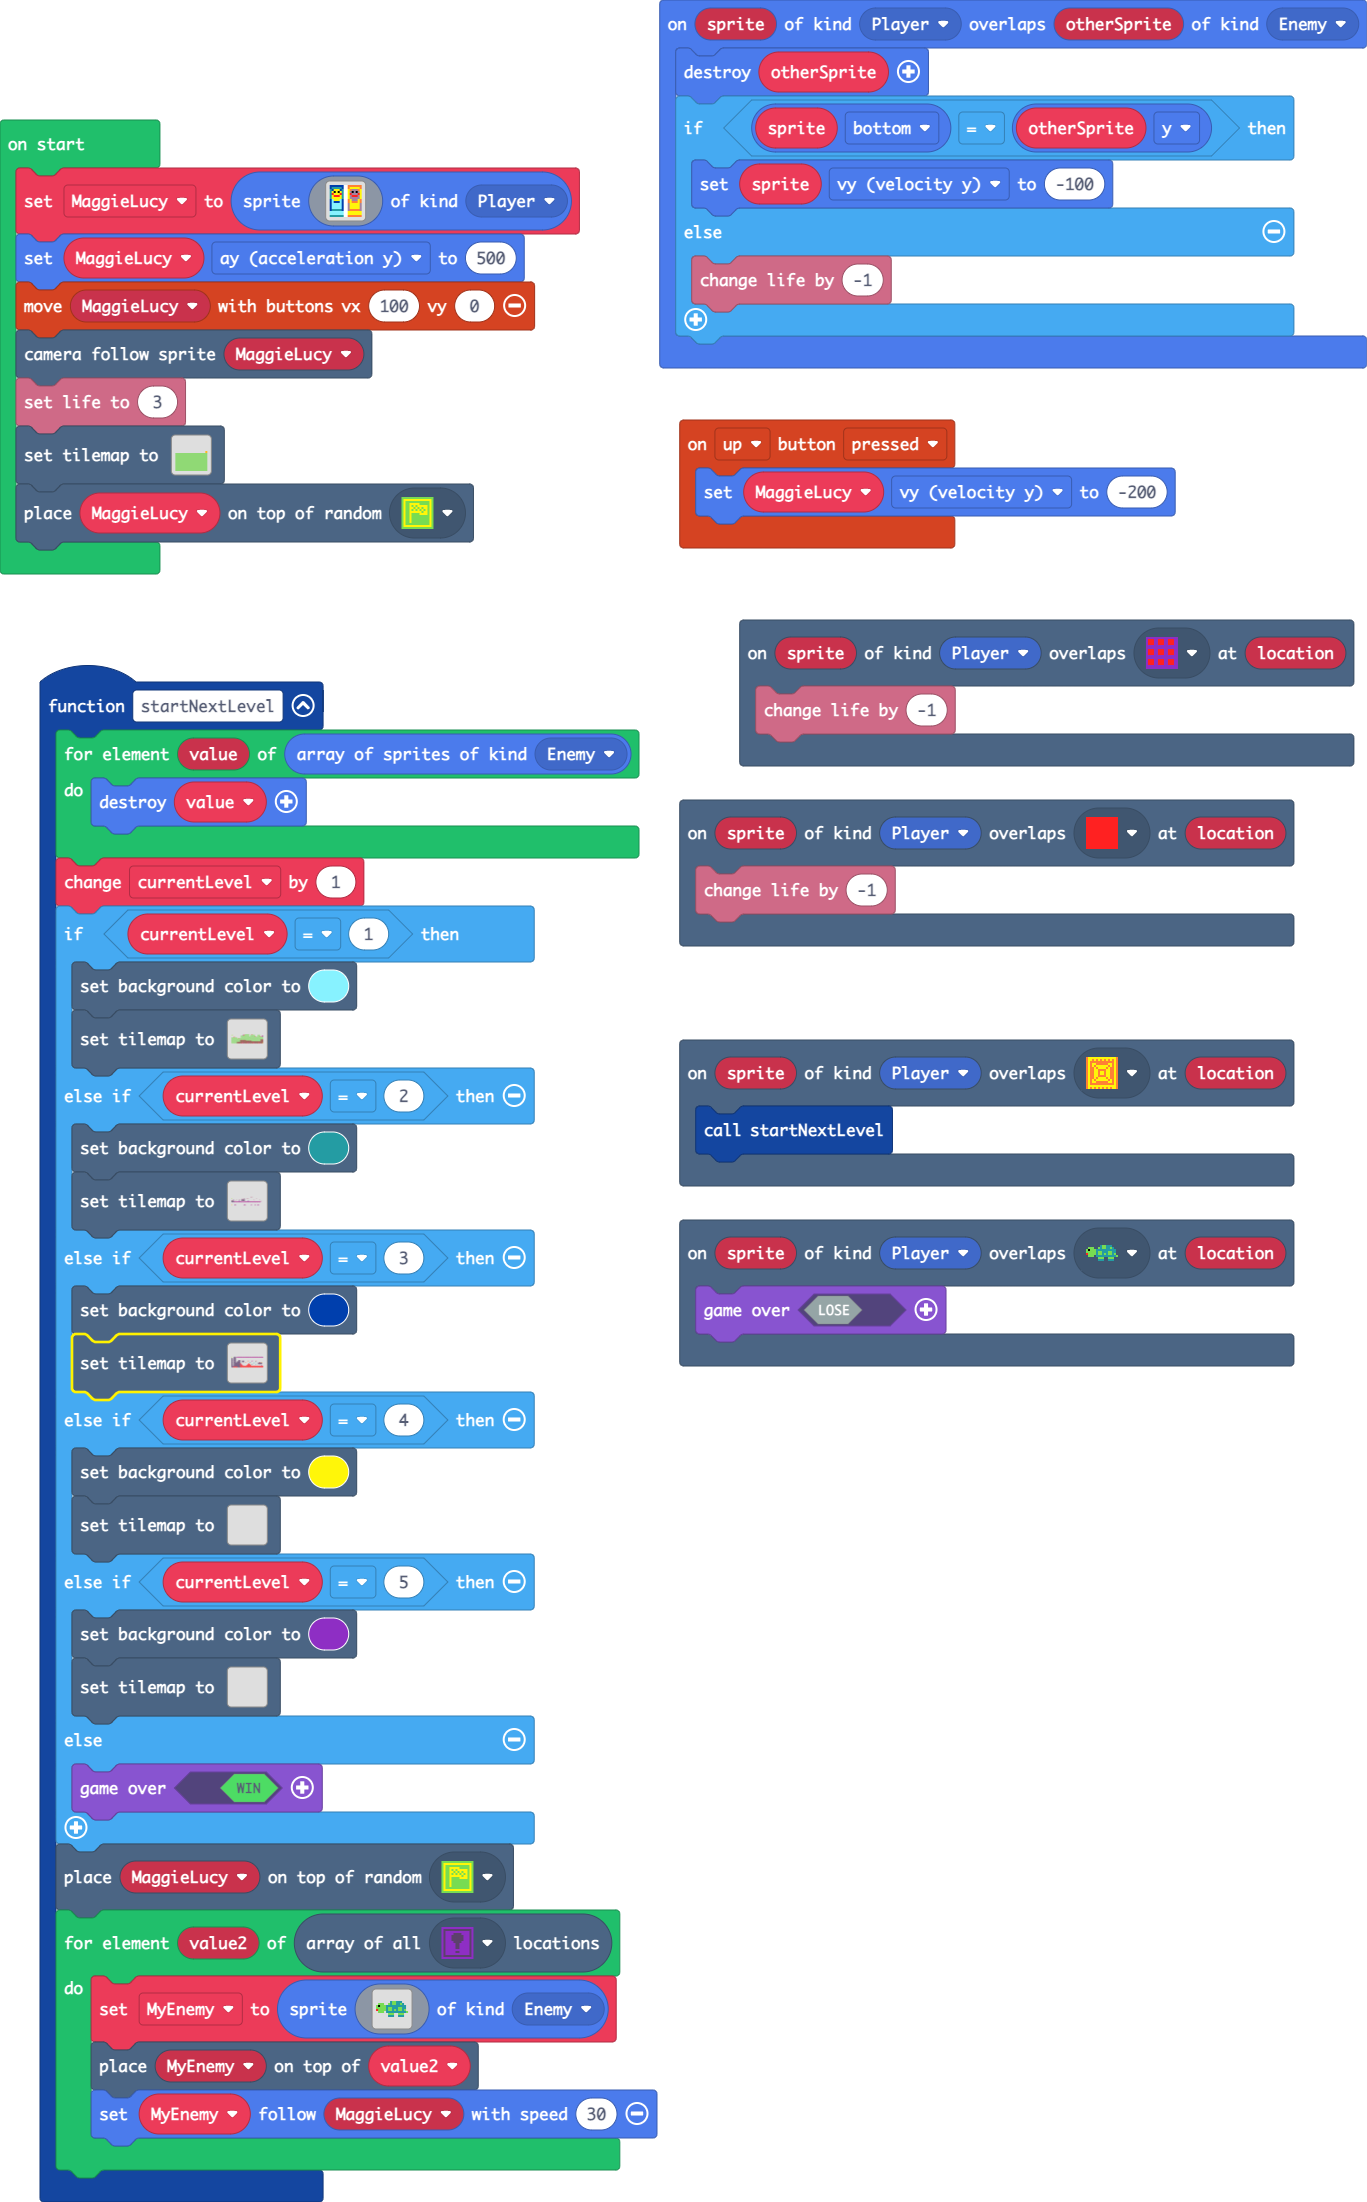
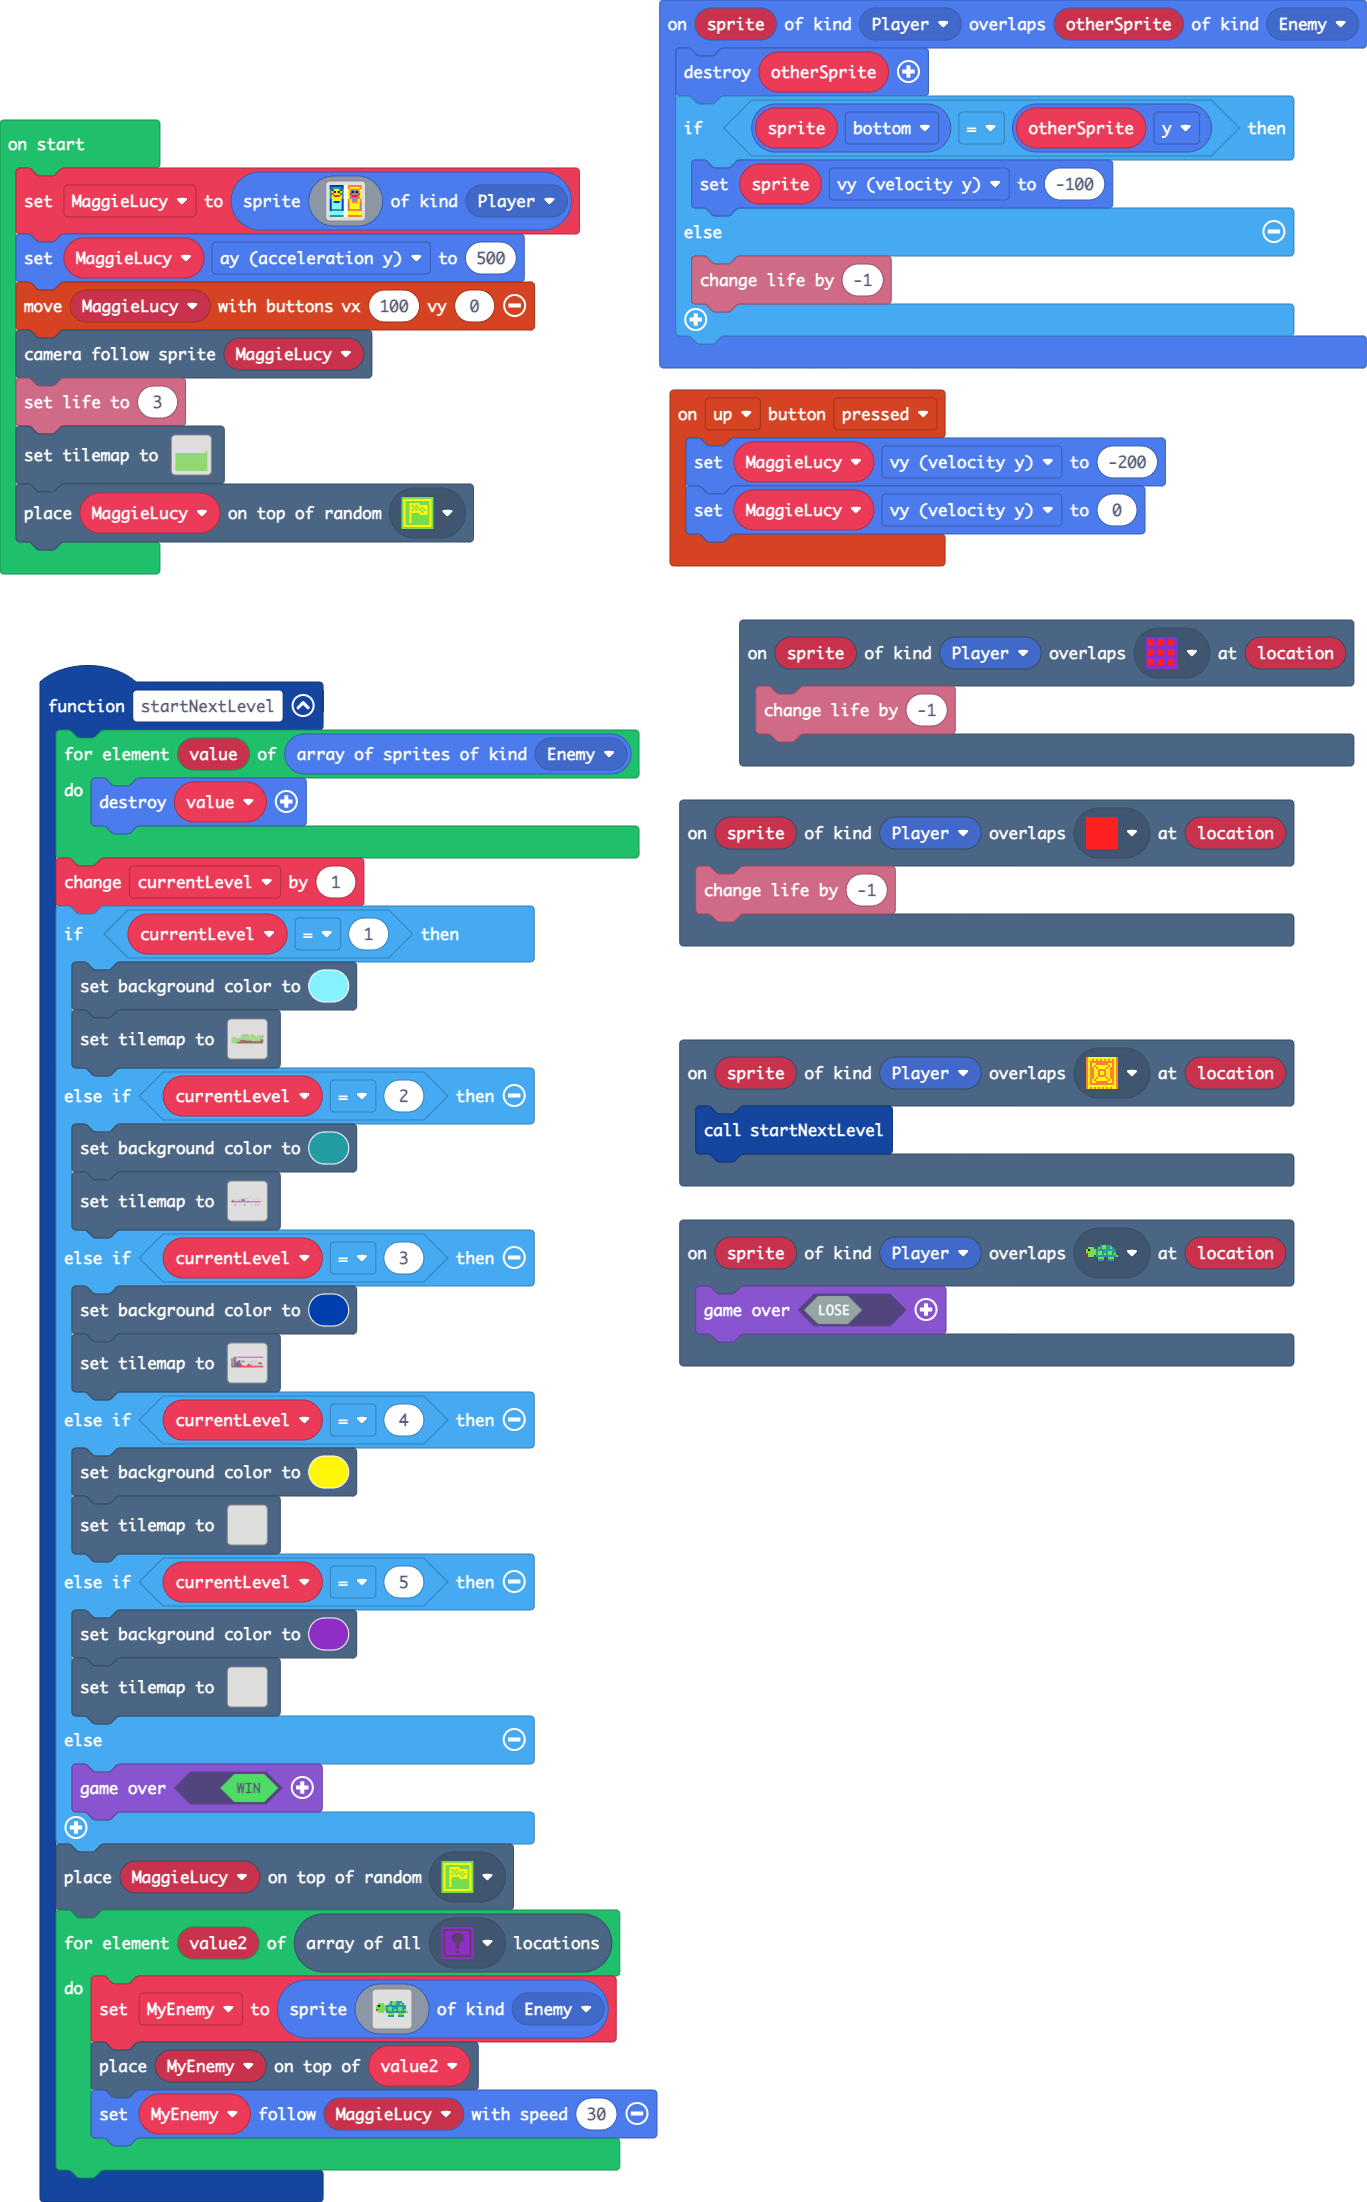
Update main.blocks, main.ts

Changed region(s): [[0.4916, 0.1544, 0.8603, 0.2779]]

diff --git a/main.ts b/main.ts
@@ -3,6 +3,7 @@ scene.onOverlapTile(SpriteKind.Player, assets.tile`myTile1`, function (sprite, l
 })
 controller.up.onEvent(ControllerButtonEvent.Pressed, function () {
     MaggieLucy.vy = -200
+    MaggieLucy.vy = 0
 })
 scene.onOverlapTile(SpriteKind.Player, assets.tile`myTile`, function (sprite, location) {
     startNextLevel()
